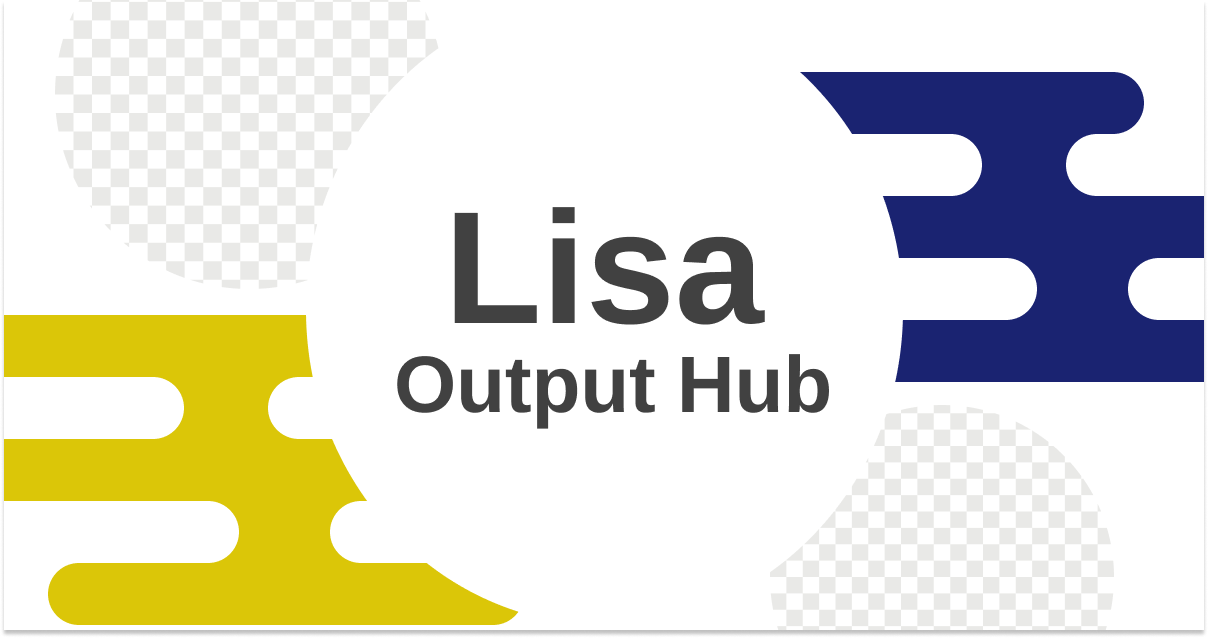
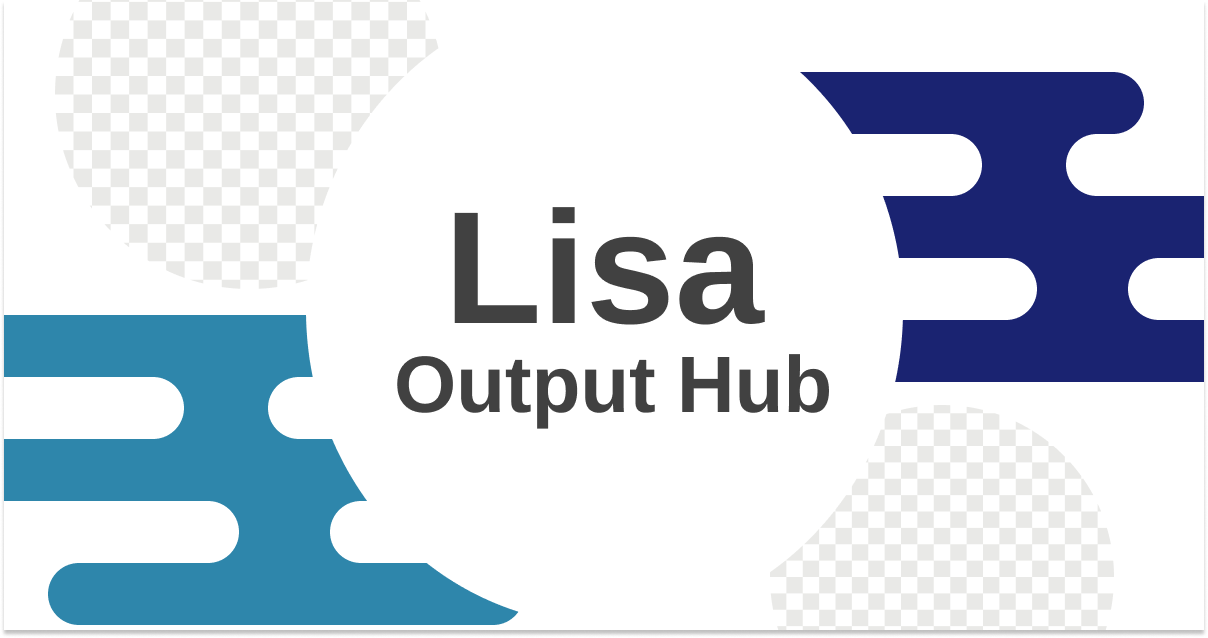
finetune on theme color

Changed region(s): [[0.0, 0.4765, 0.4288, 0.9828]]

diff --git a/src/styles/_variables.scss b/src/styles/_variables.scss
@@ -4,6 +4,6 @@
   --color-base-text: #444;
   --color-base-text-lighter: #3f3a39;
   --color-border: #929597;
-  --color-primary-background: #1685e5;
-  --color-primary-text: #1685e5;
+  --color-primary-background: #2e86ab;
+  --color-primary-text: #2e86ab;
 }
